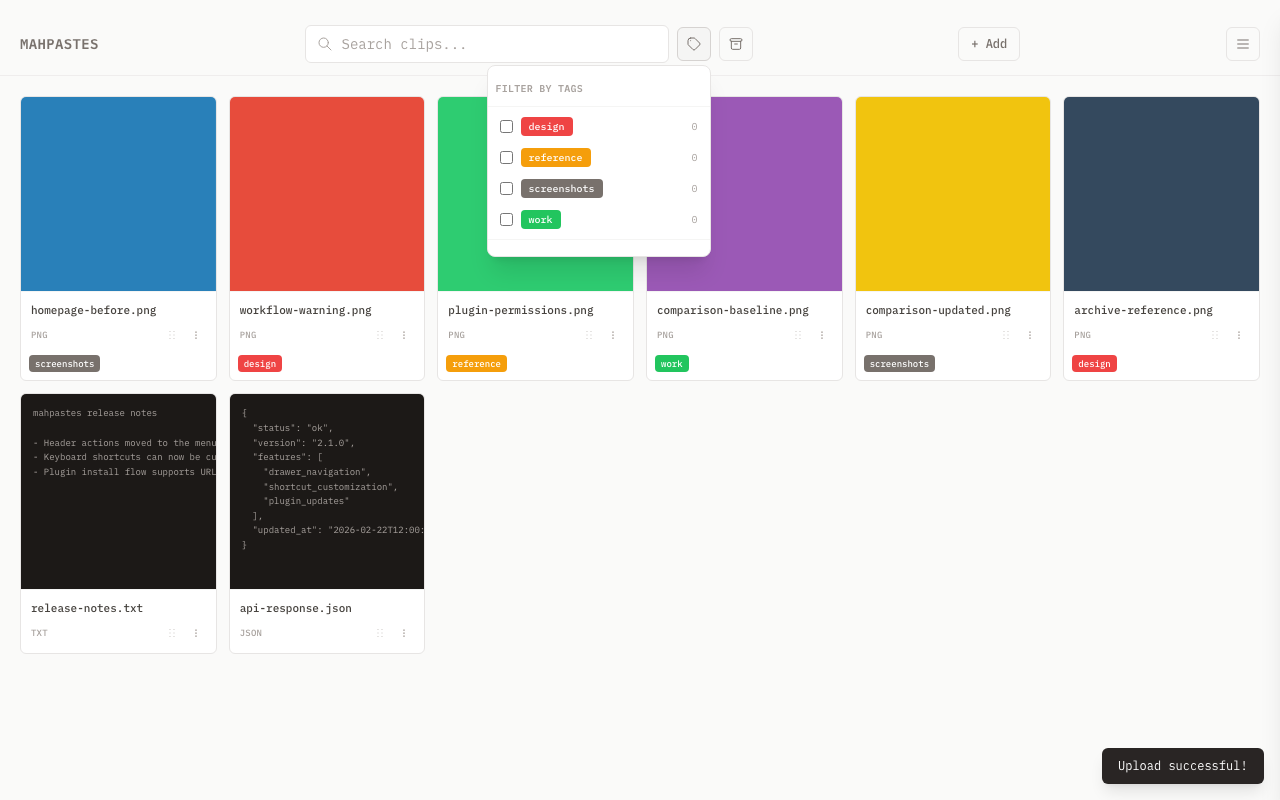
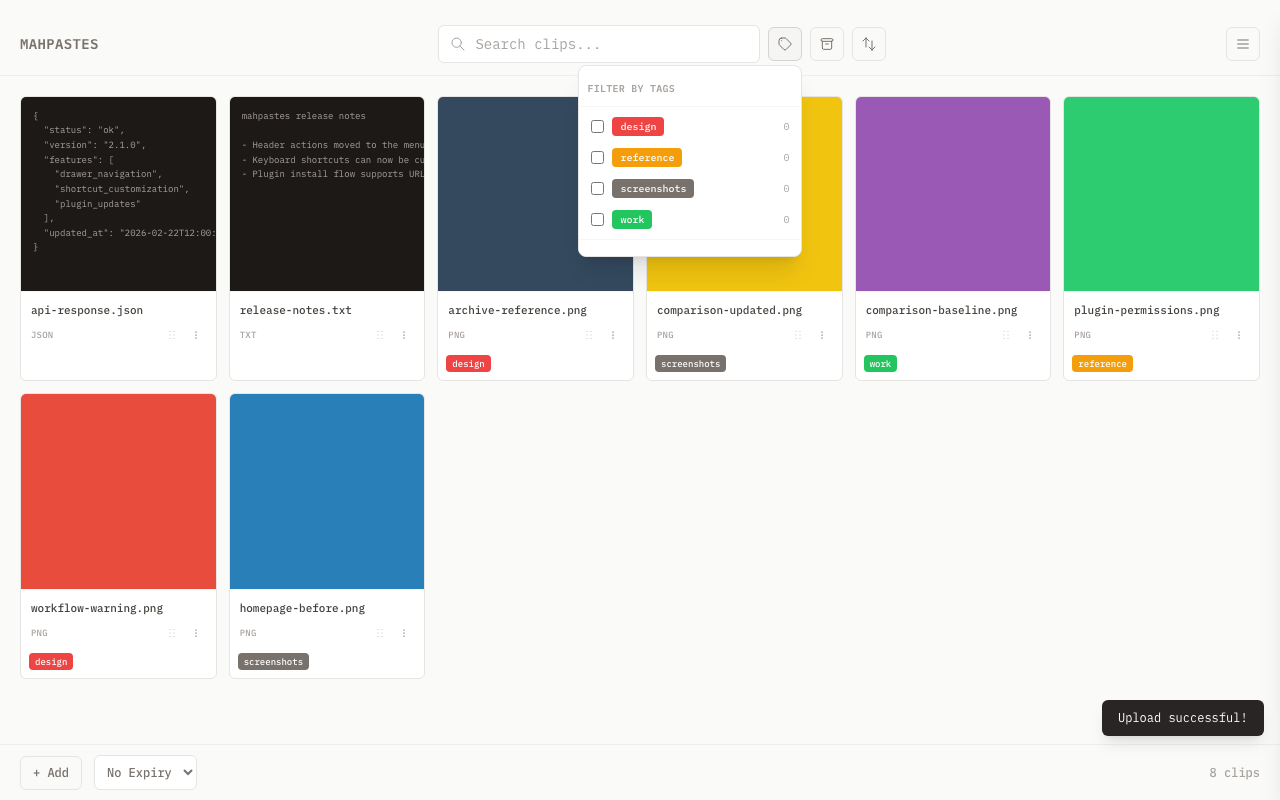
docs: update screenshot capture and regenerate all screenshots
Add 5 new screenshot scenarios to capture.spec.ts:
- Bottom bar (add button, expiry dropdown, clip count)
- Sort popover (sort options expanded from header button)
- Metadata modal (system info + custom key-value pairs)
- Menu drawer (navigation items and plugin global actions)
- Deduplication (gallery with duplicate count badges)

Regenerate all 23 screenshots (18 existing refreshed + 5 new).
Add screenshot references to metadata.md and deduplication.md.

diff --git a/e2e/tests/screenshots/capture.spec.ts b/e2e/tests/screenshots/capture.spec.ts
@@ -83,6 +83,23 @@ test('capture documentation screenshots', async ({ app, tempDir }) => {
   await app.page.waitForTimeout(500);
   await app.page.screenshot({ path: path.join(SCREENSHOTS_DIR, 'gallery.png') });
 
+  // === 1b. Bottom bar screenshot ===
+  // The bottom bar is always visible at the bottom of the page with add button, expiry dropdown, clip count
+  const bottomBar = app.page.locator(selectors.bottomBar.root);
+  await expect(bottomBar).toBeVisible();
+  await app.page.waitForTimeout(200);
+  await app.page.screenshot({ path: path.join(SCREENSHOTS_DIR, 'bottom-bar.png') });
+
+  // === 1c. Sort popover screenshot ===
+  // Click the sort button in the header to open the sort options popover
+  await app.page.locator(selectors.sort.button).click();
+  await app.page.waitForSelector(selectors.sort.popover);
+  await app.page.waitForTimeout(200);
+  await app.page.screenshot({ path: path.join(SCREENSHOTS_DIR, 'sort-popover.png') });
+  // Close sort popover by clicking elsewhere
+  await app.page.locator('body').click({ position: { x: 10, y: 10 } });
+  await app.page.waitForTimeout(100);
+
   // === 2. Search screenshot ===
   await app.search('png');
   await app.page.waitForTimeout(300);
@@ -94,6 +111,33 @@ test('capture documentation screenshots', async ({ app, tempDir }) => {
   await app.page.waitForTimeout(200);
   await app.page.screenshot({ path: path.join(SCREENSHOTS_DIR, 'card-menu.png') });
   await app.closeCardMenu();
+
+  // === 3b. Metadata modal screenshot ===
+  // Set some metadata on the first clip via API, then open the metadata modal
+  await app.page.evaluate(async (filename) => {
+    // @ts-ignore
+    const clips = await window.go.main.App.GetClips(false, [], [], '', '');
+    const clip = clips.find((c: any) =>
+      c.filename?.toLowerCase().includes(filename.replace('.png', '').toLowerCase())
+    );
+    if (clip) {
+      // @ts-ignore
+      await window.go.main.App.SetClipMetadata(clip.id, 'project', 'website-redesign');
+      // @ts-ignore
+      await window.go.main.App.SetClipMetadata(clip.id, 'author', 'design-team');
+      // @ts-ignore
+      await window.go.main.App.SetClipMetadata(clip.id, 'status', 'approved');
+    }
+  }, imageFiles[0]);
+  // Open card menu and click metadata
+  await app.openCardMenu(imageFiles[0]);
+  await app.page.locator(selectors.cardMenu.metadata).click();
+  await app.page.waitForSelector(`${selectors.metadata.modal}.opacity-100`);
+  await app.page.waitForTimeout(300);
+  await app.page.screenshot({ path: path.join(SCREENSHOTS_DIR, 'metadata-modal.png') });
+  // Close metadata modal
+  await app.page.locator(selectors.metadata.closeButton).click();
+  await app.page.waitForTimeout(200);
 
   // === 4. Tags filter screenshot ===
   await app.openTagFilterDropdown();
@@ -209,7 +253,25 @@ test('capture documentation screenshots', async ({ app, tempDir }) => {
   await app.page.screenshot({ path: path.join(SCREENSHOTS_DIR, 'plugins-details.png') });
   await app.closePluginsModal();
 
-  // === 13. Archive screenshot ===
+  // === 13. Menu drawer screenshot ===
+  await app.openDrawer();
+  await app.page.waitForTimeout(300);
+  await app.page.screenshot({ path: path.join(SCREENSHOTS_DIR, 'menu-drawer.png') });
+  await app.closeDrawer();
+
+  // === 14. Deduplication screenshot ===
+  // Upload a duplicate of the first image to trigger duplicate detection
+  const duplicatePath = path.join(tempDir, 'homepage-before-copy.png');
+  await fs.copyFile(path.join(tempDir, imageFiles[0]), duplicatePath);
+  await app.uploadFile(duplicatePath);
+  await app.refreshClips();
+  // Wait for duplicate detection to run (checkDuplicatesExist is called during loadClips)
+  await app.page.waitForTimeout(500);
+  // Verify the duplicate badge appears
+  await app.page.waitForSelector(selectors.dedup.badge, { timeout: 5000 });
+  await app.page.screenshot({ path: path.join(SCREENSHOTS_DIR, 'deduplication.png') });
+
+  // === 15. Archive screenshot ===
   await app.archiveClip(imageFiles[0]);
   await app.refreshClips();
   await app.archiveClip(imageFiles[1]);

diff --git a/docs/docs/features/deduplication.md b/docs/docs/features/deduplication.md
@@ -15,6 +15,8 @@ mahpastes computes a SHA-256 content hash for every clip at upload time. Clips w
 
 ## Visual Indicators
 
+![Duplicate detection badges on clip cards](/img/screenshots/deduplication.png)
+
 - Clip cards show a **duplicate count** badge when duplicates exist
 - A toast notification appears when uploading content that already exists
 

diff --git a/docs/docs/features/metadata.md b/docs/docs/features/metadata.md
@@ -6,6 +6,8 @@ sidebar_position: 5.5
 
 Attach arbitrary key-value pairs to any clip. Metadata is stored as a JSON column on the clips table and backed up with your data.
 
+![Metadata modal](/img/screenshots/metadata-modal.png)
+
 ## Adding Metadata
 
 1. Right-click a clip card (or click the three-dot menu)
